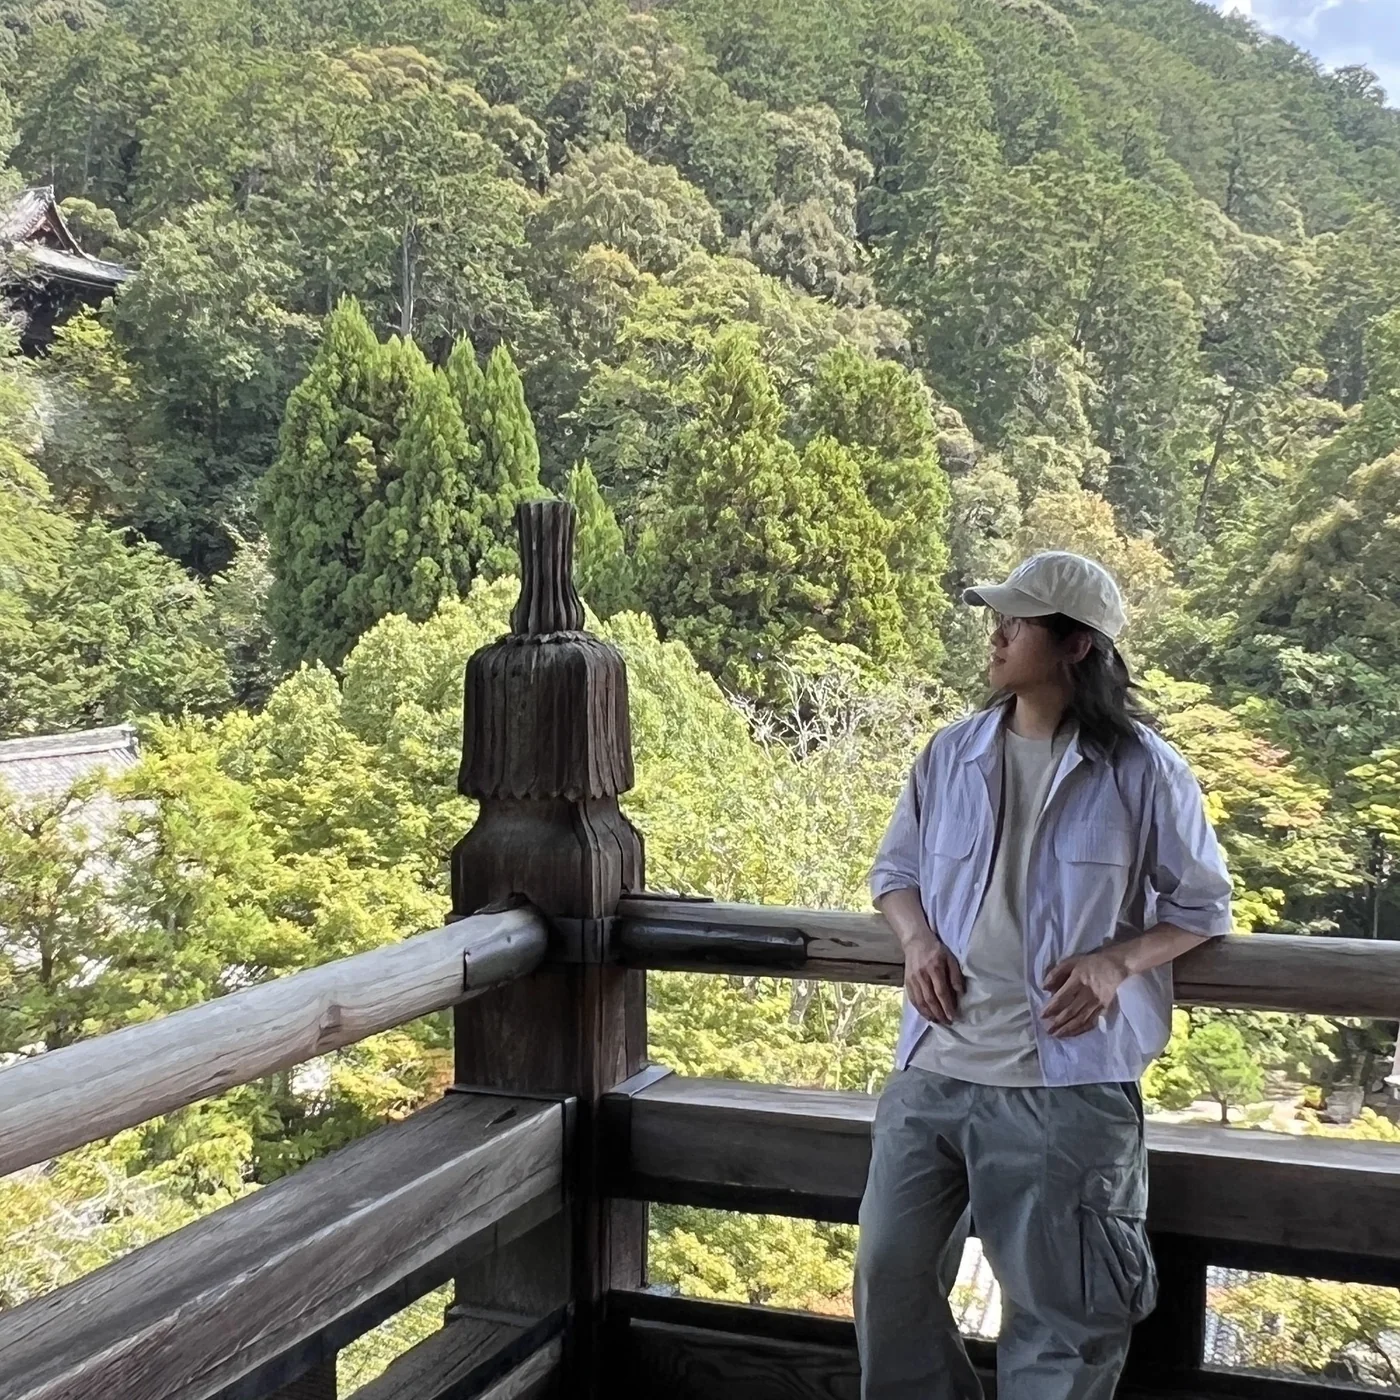
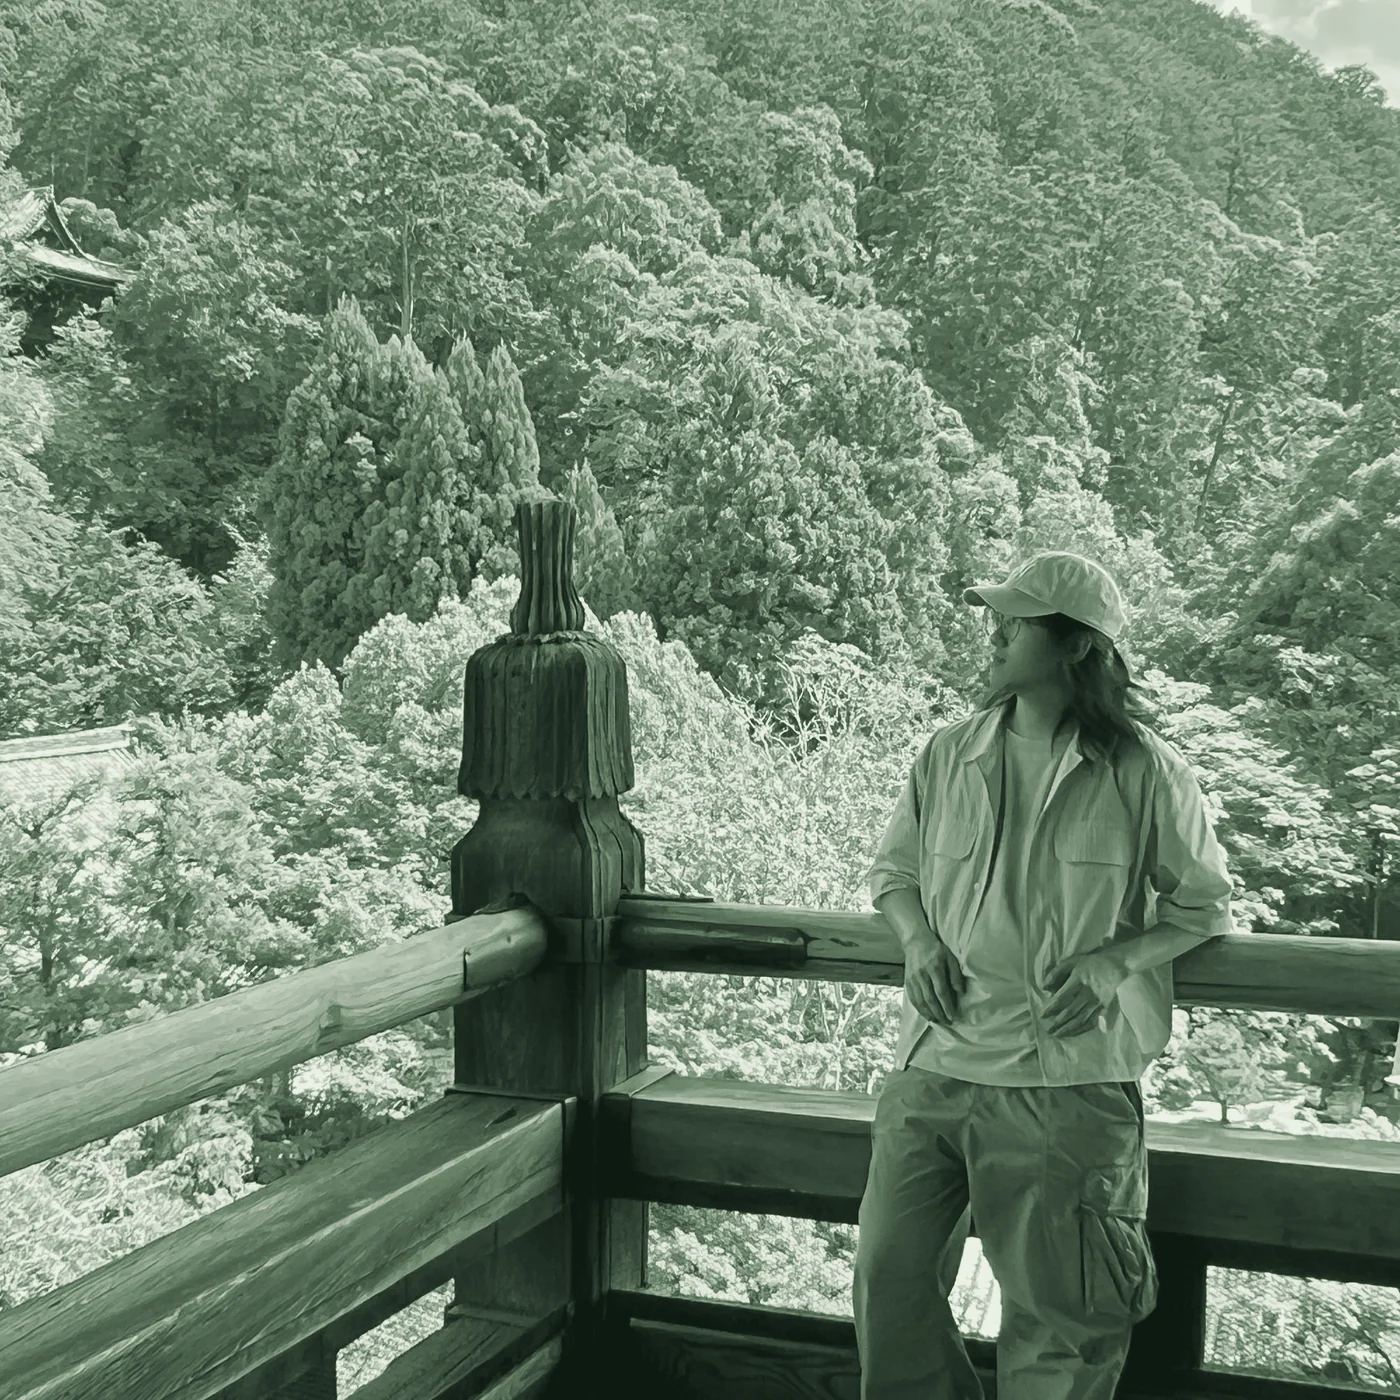
Tone the About portrait in green monochrome

diff --git a/src/about.html b/src/about.html
@@ -11,7 +11,7 @@ permalink: "/about/"
 
   <div class="ab-grid">
     <figure class="ab-photo">
-      <img src="/media/about/portrait.webp" width="1400" height="1400" alt="Yuhan Wang in a cap and an open shirt, leaning on the wooden railing of a temple veranda above a forested hillside" decoding="async">
+      <img src="/media/about/portrait.webp" width="1400" height="1400" alt="Yuhan Wang, in green-toned black and white, in a cap and an open shirt, leaning on the wooden railing of a temple veranda above a forested hillside" decoding="async">
     </figure>
 
     <div class="ab-text">
